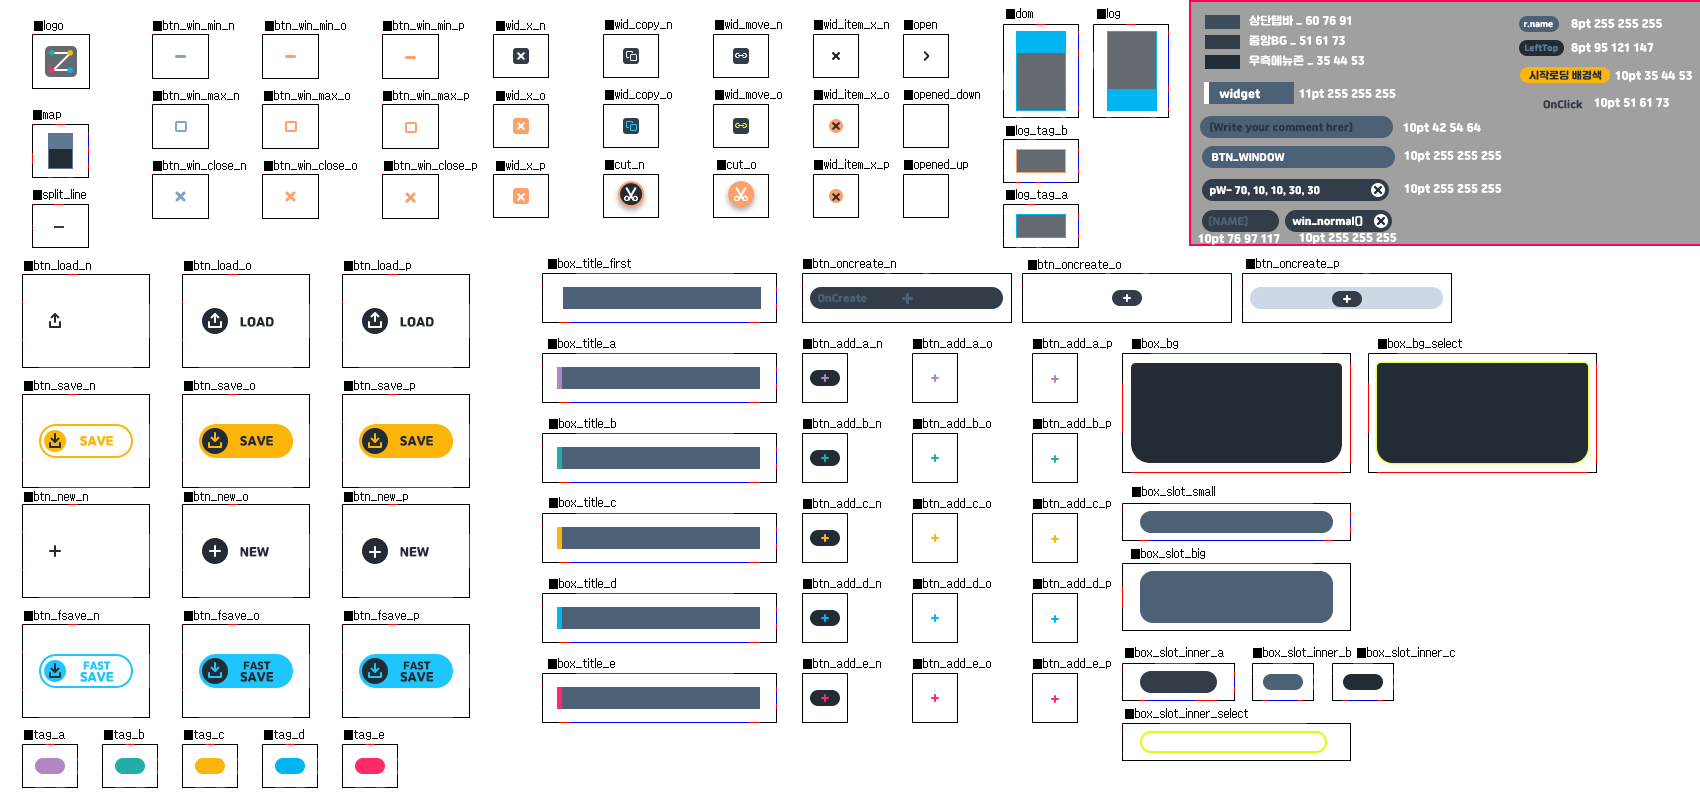
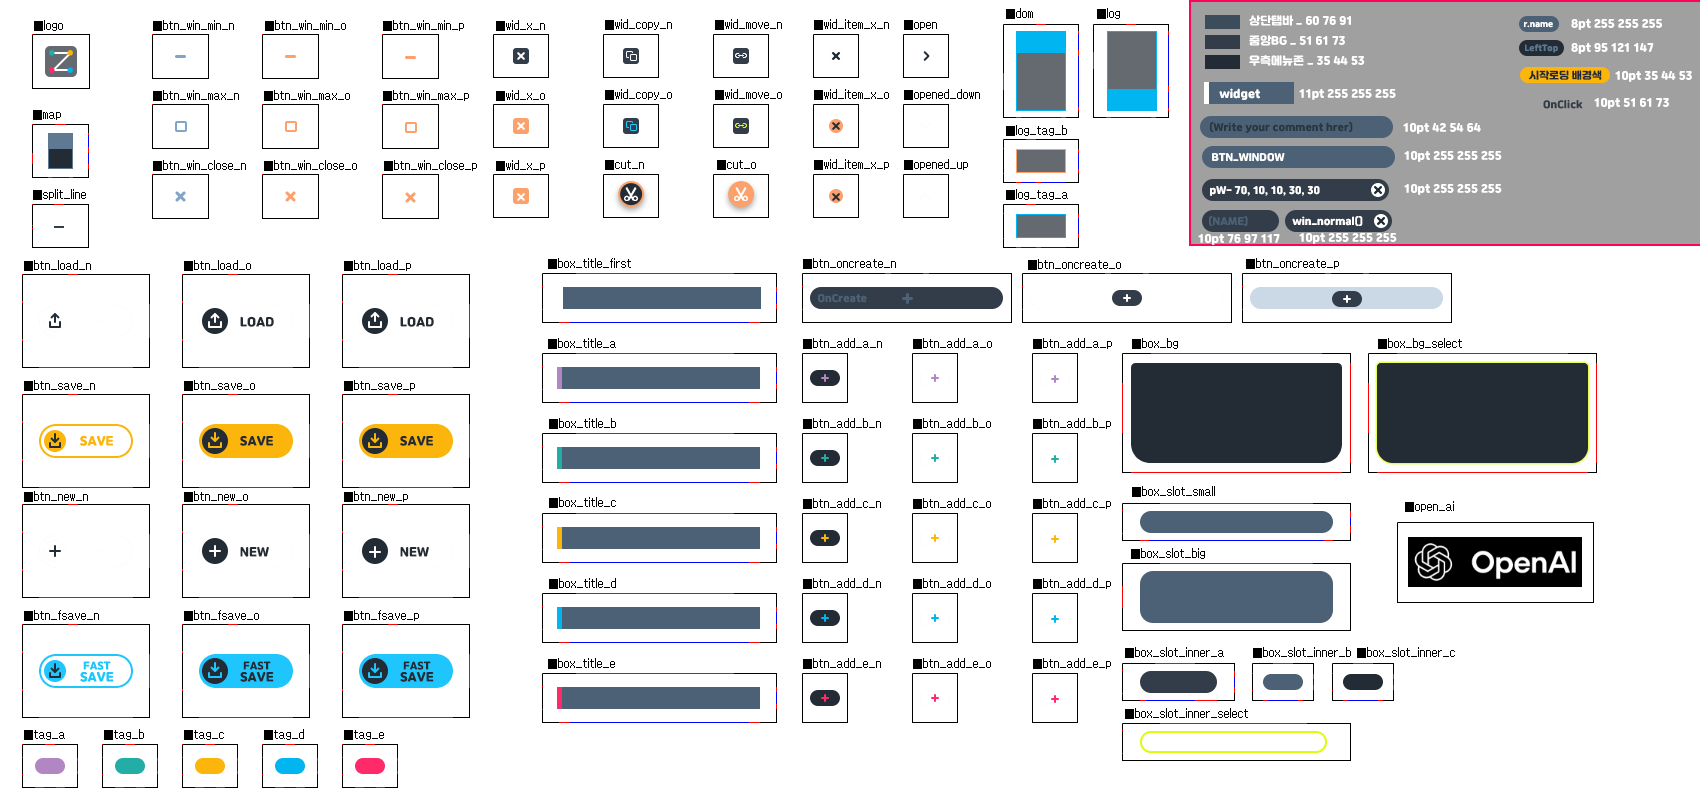
OpenAI API연결

Changed region(s): [[0.8106, 0.625, 0.9353, 0.75]]

diff --git a/source/zaypro.cpp b/source/zaypro.cpp
@@ -341,7 +341,6 @@ ZAY_VIEW_API OnGesture(GestureType type, sint32 x, sint32 y)
 
 ZAY_VIEW_API OnRender(ZayPanel& panel)
 {
-    const sint32 BgOpacity = 32 + 223 * gBgPercent / 100;
     ZAY_FONT(panel, 1.0, gBasicFont)
     {
         // 타이틀바
@@ -350,6 +349,7 @@ ZAY_VIEW_API OnRender(ZayPanel& panel)
         // 뷰
         ZAY_LTRB_SCISSOR(panel, 0, m->mTitleHeight, panel.w(), panel.h())
         {
+            const sint32 BgOpacity = 32 + 223 * gBgPercent / 100;
             ZAY_RGBA(panel, 51, 61, 73, BgOpacity)
                 panel.fill();
 
@@ -496,8 +496,23 @@ ZAY_VIEW_API OnRender(ZayPanel& panel)
                         m->clearCapture();
                 })
             {
+                // OpenAI 구역
+                const sint32 OpenAIHeight = (0 < m->mOpenAIModels("data").LengthOfIndexable())? 54 : 0;
+                ZAY_XYWH_UI_SCISSOR(panel, 0, 0, panel.w(), OpenAIHeight, "openai",
+                    ZAY_GESTURE_T(t)
+                    {
+                        if(t == GT_Pressed)
+                            m->clearCapture();
+                    })
+                {
+                    ZAY_RGB(panel, 0, 0, 0)
+                        panel.fill();
+                    ZAY_LTRB(panel, 5, 0, panel.w(), panel.h())
+                        panel.icon(R("open_ai"), UIA_LeftMiddle);
+                }
+
                 // 버튼 구역
-                ZAY_LTRB_SCISSOR(panel, 0, 0, panel.w(), 12 + 34 + 6 + 34 + 8)
+                ZAY_XYWH_SCISSOR(panel, 0, OpenAIHeight, panel.w(), 12 + 34 + 6 + 34 + 8)
                 {
                     // 버튼 배경
                     ZAY_RGB(panel, 35, 44, 53)
@@ -617,7 +632,7 @@ ZAY_VIEW_API OnRender(ZayPanel& panel)
                 }
 
                 // 컴포넌트 구역
-                ZAY_LTRB_SCISSOR(panel, 0, 12 + 34 + 6 + 34 + 8, panel.w(), panel.h())
+                ZAY_LTRB_SCISSOR(panel, 0, OpenAIHeight + 12 + 34 + 6 + 34 + 8, panel.w(), panel.h())
                 {
                     // 컴포넌트 배경
                     ZAY_RGBA(panel, 35, 44, 53, 192)
@@ -1307,6 +1322,16 @@ zayproData::zayproData() : mEasySaveEffect(updater()), mCapturedEffect(updater()
     mZaySonAPI.AddComponent(ZayExtend::ComponentType::ConditionWithEvent, "ifpressed", nullptr);
     mZaySonAPI.AddComponent(ZayExtend::ComponentType::Condition, "else", nullptr);
     mZaySonAPI.AddComponent(ZayExtend::ComponentType::Condition, "endif", nullptr);
+
+    // OpenAI관련
+    mOpenAISecretKey = String::FromAsset("openai/secretkey");
+    Platform::Utility::SendAuthRequest("https://api.openai.com/v1/models", mOpenAISecretKey,
+        [](payload data, chars text)->void
+        {
+            auto Self = (zayproData*) data;
+            Self->mOpenAIModels.LoadJson(SO_NeedCopy, text);
+            Self->invalidate();
+        }, this);
 
     // 초기화
     ResetBoxes();

diff --git a/source/zaypro.hpp b/source/zaypro.hpp
@@ -280,6 +280,8 @@ public:
 public:
     String mBuildTag;
     ZEFakeZaySon mZaySonAPI;
+    String mOpenAISecretKey;
+    Context mOpenAIModels;
     sint32 mDraggingHook;
     Tween1D mEasySaveEffect;
     ZEWidgetPipe mPipe;